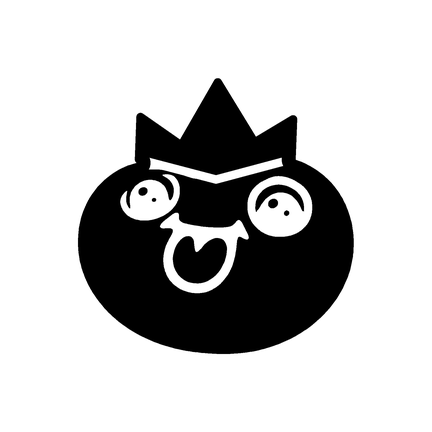
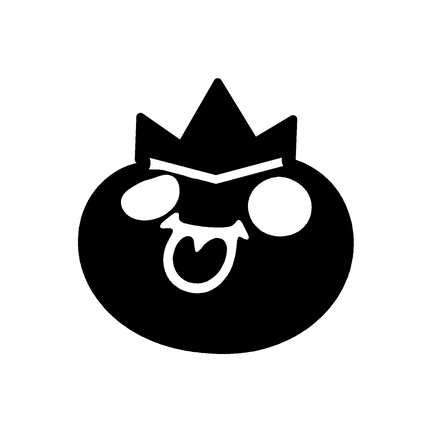
feat(brand): 까꿍의 눈을 꽉 찬 검정으로 — 흰자·하이라이트 제거
스티커의 반짝이는 흰자는 원본 펜 그림에 없다. 손그림을 이미지 모델로 스티커화하는
과정에서 덧붙은 것이고, 종이에 그린 눈은 전부 꽉 찬 검은 타원이다. 원본으로 되돌린다.

두 가지가 걸렸다.
- 바깥으로 열린 초승달은 구멍이 아니라 홈이라 fill_holes 로 안 메워진다. 오른쪽 눈은
  하이라이트가 닫힌 구멍이라 그냥 메워지지만(둘레 618 불변), 왼쪽 눈은 쓸림이 테두리로
  열려 있다. 닫힘 R=24 를 먼저 걸면 봉해진다(둘레 702 → 536).
- 봉한 자리가 울퉁불퉁해 눈만 평활을 4.5 로 세게 건다. 입은 2.0 그대로 둔다 — 원본 결을
  남겨야 한다. 볼록껍질도 재봤지만 왼쪽 눈이 각진 쐐기가 돼 뺐다.

입만은 구멍을 남긴다(혀와 몸통 초록이 비쳐야 한다). 입의 판별은 위치가 아니라 "혀 중심을
품는 성분"으로 한다 — 위치 규칙은 컷이 바뀌면 깨지지만 이건 안 깨진다.

잉크 질량이 늘어 24px 진한 픽셀이 13.0% → 14.1%. 패스는 14개 → 8개로 줄었다
(하이라이트 6개 삭제). SVG 34.4KB → 27.7KB.

검증: npm run typecheck 통과.
⚠ 실기기 육안 확인은 여전히 미검증.

Claude-Session: https://claude.ai/code/session_01BU8FhDvej1k9k2iXYBdBjZ

Changed region(s): [[0.5718, 0.3912, 0.7222, 0.5417], [0.2708, 0.3912, 0.4213, 0.4815], [0.3611, 0.4815, 0.3912, 0.5116]]

diff --git a/frontend/src/components/BigaeMark.tsx b/frontend/src/components/BigaeMark.tsx
@@ -5,12 +5,19 @@
  * 벡터로 옮긴 것이다. 마스터는 {@code assets/bigae-mark.svg} 이고 앱 아이콘도 여기서 렌더한다.
  *
  * <p><b>왜 까꿍인가</b>: 이전 컷(bigae_excited)은 눈이 점 두 개라 48px 에서 캐릭터가
- * "보지 않았다". 까꿍은 큰 눈 + 하이라이트 + 혀를 이미 갖고 있어 잉크 질량이 크고,
+ * "보지 않았다". 까꿍은 큰 눈 + 혀를 이미 갖고 있어 잉크 질량이 크고,
  * 그래서 흰 배경에서도 형태가 남는다(24px 진한 윤곽 픽셀 0.3% → 13.0%).
  *
  * <p><b>왕관</b>: 럽슐랭(맛집 등급)이 이 앱의 정체성이라 왕관을 얹었다. 미슐랭 별 형태는
  * 상표라 피했다. 밑변이 V 자인 이유는 머리 꼭대기의 하트 홈(y 38.4)을 덮으면서
  * 눈(y 36.4)은 비켜가야 하기 때문이다 — 직선 밑변이면 둘 중 하나가 깨진다.
+ *
+ * <p><b>눈은 꽉 찬 검정이다</b> — 흰자·하이라이트가 없다. 원본 펜 그림의 눈이 그랬고,
+ * 스티커의 반짝임은 손그림을 이미지 모델로 스티커화하는 과정에서 덧붙은 것이다.
+ * 걷어내는 방법: 바깥으로 열린 초승달 하이라이트는 구멍이 아니라 홈이라 fill_holes 로
+ * 안 메워진다 — 닫힘(R=24)으로 봉한 뒤 채우고, 그 자리가 울퉁불퉁해 평활을 4.5 로 세게 건다.
+ * 입만은 구멍을 남긴다(혀와 몸통 초록이 비쳐야 한다). 입의 판별은 위치가 아니라
+ * "혀 중심을 품는 성분" 으로 한다.
  *
  * <p>얼굴은 몸통 대비 (5.4, 1.5) 만큼 옮겨 중심을 맞췄다. 팔다리를 떼면
  * 얼굴이 왼쪽으로 5.7% 치우치기 때문이다. 그 값은 패스 좌표에 구워져 있다.
@@ -38,15 +45,9 @@ export function BigaeMark({ size = 96, style }: { size?: number; style?: ViewSty
     <Path fill={BLUSH} d="M80.0,60.5C80.1,60.4 80.2,60.4 80.4,60.4C80.5,60.4 80.6,60.4 80.8,60.4C80.9,60.4 81.0,60.4 81.1,60.4C81.3,60.4 81.4,60.4 81.5,60.5C81.6,60.5 81.8,60.5 81.9,60.5C82.0,60.5 82.1,60.5 82.3,60.5C82.4,60.5 82.5,60.6 82.6,60.6C82.7,60.6 82.9,60.6 83.0,60.6C83.1,60.7 83.2,60.7 83.3,60.7C83.5,60.7 83.6,60.8 83.7,60.8C83.8,60.8 83.9,60.9 84.0,60.9C84.1,60.9 84.3,61.0 84.4,61.0C84.5,61.0 84.6,61.1 84.7,61.1C84.8,61.2 84.9,61.2 85.0,61.3C85.2,61.3 85.3,61.4 85.4,61.4C85.5,61.5 85.6,61.5 85.7,61.6C85.8,61.7 85.9,61.7 86.0,61.8C86.1,61.9 86.2,61.9 86.3,62.0C86.3,62.1 86.4,62.2 86.5,62.3C86.6,62.4 86.7,62.5 86.7,62.6C86.8,62.6 86.9,62.7 86.9,62.8C87.0,62.9 87.1,63.1 87.1,63.2C87.2,63.3 87.2,63.4 87.2,63.5C87.3,63.6 87.3,63.7 87.3,63.8C87.3,63.9 87.4,64.1 87.4,64.2C87.4,64.3 87.4,64.4 87.4,64.5C87.4,64.6 87.4,64.8 87.3,64.9C87.3,65.0 87.3,65.1 87.3,65.2C87.2,65.3 87.2,65.4 87.1,65.5C87.1,65.7 87.0,65.8 87.0,65.9C86.9,66.0 86.9,66.1 86.8,66.2C86.7,66.3 86.7,66.4 86.6,66.5C86.5,66.6 86.4,66.7 86.4,66.7C86.3,66.8 86.2,66.9 86.1,67.0C86.0,67.1 85.9,67.2 85.8,67.2C85.7,67.3 85.6,67.4 85.5,67.5C85.4,67.5 85.3,67.6 85.2,67.7C85.1,67.7 85.0,67.8 84.9,67.9C84.8,67.9 84.7,68.0 84.6,68.0C84.5,68.1 84.4,68.2 84.3,68.2C84.2,68.3 84.1,68.3 84.0,68.4C83.9,68.4 83.8,68.5 83.6,68.5C83.5,68.6 83.4,68.6 83.3,68.6C83.2,68.7 83.1,68.7 83.0,68.8C82.9,68.8 82.8,68.8 82.6,68.9C82.5,68.9 82.4,69.0 82.3,69.0C82.2,69.0 82.1,69.1 82.0,69.1C81.8,69.1 81.7,69.2 81.6,69.2C81.5,69.2 81.4,69.2 81.2,69.3C81.1,69.3 81.0,69.3 80.9,69.3C80.8,69.3 80.6,69.4 80.5,69.4C80.4,69.4 80.3,69.4 80.1,69.4C80.0,69.4 79.9,69.4 79.8,69.4C79.6,69.4 79.5,69.5 79.4,69.5C79.3,69.5 79.1,69.5 79.0,69.5C78.9,69.5 78.8,69.5 78.6,69.5C78.5,69.5 78.4,69.5 78.3,69.5C78.1,69.5 78.0,69.5 77.9,69.5C77.7,69.5 77.6,69.5 77.5,69.5C77.4,69.5 77.2,69.5 77.1,69.4C77.0,69.4 76.9,69.4 76.7,69.4C76.6,69.4 76.5,69.4 76.4,69.4C76.3,69.4 76.1,69.3 76.0,69.3C75.9,69.3 75.8,69.3 75.7,69.3C75.5,69.2 75.4,69.2 75.3,69.2C75.2,69.1 75.1,69.1 74.9,69.1C74.8,69.0 74.7,69.0 74.6,69.0C74.5,68.9 74.4,68.9 74.3,68.8C74.2,68.8 74.1,68.7 73.9,68.7C73.8,68.6 73.7,68.6 73.6,68.5C73.5,68.5 73.4,68.4 73.3,68.4C73.2,68.3 73.1,68.2 73.0,68.2C72.9,68.1 72.8,68.0 72.7,67.9C72.6,67.8 72.6,67.8 72.5,67.7C72.4,67.6 72.3,67.5 72.2,67.4C72.2,67.3 72.1,67.2 72.0,67.1C72.0,67.0 71.9,66.9 71.9,66.8C71.8,66.7 71.8,66.6 71.7,66.5C71.7,66.4 71.7,66.2 71.6,66.1C71.6,66.0 71.6,65.9 71.6,65.8C71.6,65.7 71.6,65.5 71.6,65.4C71.6,65.3 71.6,65.2 71.6,65.1C71.6,65.0 71.6,64.8 71.7,64.7C71.7,64.6 71.7,64.5 71.8,64.4C71.8,64.3 71.9,64.2 72.0,64.1C72.0,64.0 72.1,63.9 72.1,63.8C72.2,63.7 72.3,63.6 72.4,63.5C72.5,63.4 72.5,63.3 72.6,63.2C72.7,63.1 72.8,63.0 72.9,62.9C73.0,62.9 73.1,62.8 73.2,62.7C73.3,62.6 73.4,62.6 73.5,62.5C73.6,62.4 73.7,62.3 73.8,62.3C73.9,62.2 74.0,62.2 74.1,62.1C74.2,62.0 74.3,62.0 74.4,61.9C74.5,61.9 74.6,61.8 74.7,61.8C74.8,61.7 74.9,61.7 75.1,61.6C75.2,61.6 75.3,61.5 75.4,61.5C75.5,61.4 75.6,61.4 75.7,61.3C75.8,61.3 75.9,61.2 76.0,61.2C76.2,61.2 76.3,61.1 76.4,61.1C76.5,61.0 76.6,61.0 76.7,61.0C76.8,60.9 77.0,60.9 77.1,60.9C77.2,60.9 77.3,60.8 77.4,60.8C77.5,60.8 77.7,60.7 77.8,60.7C77.9,60.7 78.0,60.7 78.1,60.7C78.3,60.6 78.4,60.6 78.5,60.6C78.6,60.6 78.8,60.6 78.9,60.5C79.0,60.5 79.1,60.5 79.2,60.5C79.4,60.5 79.5,60.5 79.6,60.5C79.7,60.5 79.9,60.5 80.0,60.5Z" />
     <Path fill={BLUSH} d="M17.6,55.3C17.7,55.3 17.9,55.2 18.0,55.2C18.1,55.2 18.2,55.2 18.3,55.2C18.4,55.2 18.6,55.2 18.7,55.2C18.8,55.2 18.9,55.2 19.0,55.2C19.2,55.2 19.3,55.3 19.4,55.3C19.5,55.3 19.6,55.3 19.7,55.3C19.9,55.3 20.0,55.3 20.1,55.3C20.2,55.3 20.3,55.4 20.4,55.4C20.5,55.4 20.7,55.4 20.8,55.4C20.9,55.4 21.0,55.5 21.1,55.5C21.2,55.5 21.3,55.5 21.4,55.6C21.6,55.6 21.7,55.6 21.8,55.6C21.9,55.7 22.0,55.7 22.1,55.7C22.2,55.7 22.3,55.8 22.4,55.8C22.5,55.8 22.6,55.9 22.7,55.9C22.8,55.9 23.0,56.0 23.1,56.0C23.2,56.1 23.3,56.1 23.4,56.1C23.5,56.2 23.6,56.2 23.7,56.3C23.8,56.3 23.9,56.3 24.0,56.4C24.1,56.4 24.2,56.5 24.3,56.5C24.4,56.6 24.5,56.6 24.6,56.7C24.7,56.7 24.8,56.8 24.9,56.9C25.0,56.9 25.1,57.0 25.2,57.0C25.3,57.1 25.4,57.2 25.5,57.2C25.6,57.3 25.6,57.3 25.7,57.4C25.8,57.5 25.9,57.6 26.0,57.6C26.1,57.7 26.2,57.8 26.3,57.9C26.3,58.0 26.4,58.0 26.5,58.1C26.6,58.2 26.6,58.3 26.7,58.4C26.8,58.5 26.8,58.6 26.9,58.7C26.9,58.8 27.0,58.9 27.0,59.0C27.1,59.1 27.1,59.2 27.2,59.3C27.2,59.4 27.2,59.5 27.3,59.6C27.3,59.7 27.3,59.8 27.4,59.9C27.4,60.0 27.4,60.1 27.4,60.2C27.4,60.4 27.4,60.5 27.4,60.6C27.4,60.7 27.4,60.8 27.4,60.9C27.4,61.0 27.4,61.1 27.3,61.2C27.3,61.4 27.3,61.5 27.2,61.6C27.2,61.7 27.1,61.8 27.1,61.9C27.0,62.0 27.0,62.1 26.9,62.2C26.9,62.3 26.8,62.3 26.7,62.4C26.7,62.5 26.6,62.6 26.5,62.7C26.4,62.8 26.3,62.8 26.3,62.9C26.2,63.0 26.1,63.1 26.0,63.1C25.9,63.2 25.8,63.3 25.7,63.3C25.6,63.4 25.5,63.4 25.4,63.5C25.3,63.5 25.2,63.6 25.1,63.6C25.0,63.7 24.9,63.7 24.8,63.8C24.7,63.8 24.6,63.9 24.5,63.9C24.4,63.9 24.3,64.0 24.2,64.0C24.1,64.0 24.0,64.1 23.8,64.1C23.7,64.1 23.6,64.1 23.5,64.1C23.4,64.2 23.3,64.2 23.2,64.2C23.0,64.2 22.9,64.2 22.8,64.2C22.7,64.2 22.6,64.2 22.5,64.2C22.3,64.2 22.2,64.2 22.1,64.2C22.0,64.2 21.9,64.2 21.7,64.2C21.6,64.2 21.5,64.2 21.4,64.2C21.3,64.2 21.1,64.2 21.0,64.2C20.9,64.2 20.8,64.2 20.7,64.2C20.5,64.2 20.4,64.2 20.3,64.2C20.2,64.2 20.1,64.1 20.0,64.1C19.9,64.1 19.7,64.1 19.6,64.1C19.5,64.1 19.4,64.0 19.3,64.0C19.2,64.0 19.1,64.0 19.0,63.9C18.9,63.9 18.8,63.9 18.6,63.8C18.5,63.8 18.4,63.8 18.3,63.7C18.2,63.7 18.1,63.7 18.0,63.6C17.9,63.6 17.8,63.6 17.7,63.5C17.6,63.5 17.5,63.5 17.4,63.4C17.3,63.4 17.2,63.3 17.1,63.3C17.0,63.3 16.9,63.2 16.7,63.2C16.6,63.1 16.5,63.1 16.4,63.0C16.3,63.0 16.2,62.9 16.1,62.9C16.0,62.8 16.0,62.8 15.9,62.7C15.8,62.7 15.7,62.6 15.6,62.5C15.5,62.5 15.4,62.4 15.3,62.3C15.2,62.3 15.1,62.2 15.0,62.1C14.9,62.1 14.8,62.0 14.7,61.9C14.6,61.9 14.6,61.8 14.5,61.7C14.4,61.6 14.3,61.5 14.2,61.5C14.1,61.4 14.0,61.3 14.0,61.2C13.9,61.1 13.8,61.0 13.8,60.9C13.7,60.9 13.6,60.8 13.6,60.7C13.5,60.6 13.4,60.5 13.4,60.4C13.3,60.3 13.3,60.2 13.3,60.1C13.2,60.0 13.2,59.9 13.1,59.8C13.1,59.7 13.1,59.5 13.0,59.4C13.0,59.3 13.0,59.2 13.0,59.1C13.0,59.0 13.0,58.9 13.0,58.8C13.0,58.7 13.0,58.5 13.0,58.4C13.0,58.3 13.0,58.2 13.1,58.1C13.1,58.0 13.1,57.9 13.2,57.8C13.2,57.7 13.2,57.6 13.3,57.5C13.3,57.4 13.4,57.3 13.5,57.2C13.5,57.1 13.6,57.0 13.7,56.9C13.7,56.8 13.8,56.8 13.9,56.7C14.0,56.6 14.1,56.5 14.1,56.4C14.2,56.4 14.3,56.3 14.4,56.2C14.5,56.2 14.6,56.1 14.7,56.1C14.8,56.0 14.9,56.0 15.0,55.9C15.1,55.9 15.2,55.8 15.3,55.8C15.4,55.7 15.5,55.7 15.6,55.7C15.7,55.6 15.8,55.6 15.9,55.5C16.0,55.5 16.1,55.5 16.3,55.5C16.4,55.4 16.5,55.4 16.6,55.4C16.7,55.4 16.8,55.4 16.9,55.3C17.0,55.3 17.2,55.3 17.3,55.3C17.4,55.3 17.5,55.3 17.6,55.3Z" />
     <Path fill={TONGUE} d="M39.6,57.9C39.8,57.8 40.0,57.7 40.2,57.7C40.4,57.7 40.7,57.7 40.9,57.7C41.1,57.7 41.4,57.7 41.6,57.8C41.8,57.8 42.0,57.9 42.2,57.9C42.4,58.0 42.6,58.0 42.8,58.1C43.0,58.2 43.1,58.2 43.2,58.3C43.3,58.4 43.4,58.6 43.5,58.7C43.5,58.8 43.5,59.0 43.5,59.1C43.5,59.3 43.4,59.5 43.4,59.6C43.3,59.8 43.2,60.0 43.2,60.2C43.1,60.4 43.0,60.6 42.9,60.9C42.8,61.1 42.7,61.3 42.6,61.5C42.5,61.7 42.5,61.9 42.4,62.2C42.3,62.4 42.2,62.6 42.2,62.8C42.1,63.1 42.0,63.3 42.0,63.5C42.0,63.8 41.9,64.0 41.9,64.2C41.9,64.5 41.9,64.7 41.9,64.9C41.9,65.1 41.9,65.4 41.9,65.5C42.0,65.7 42.1,65.9 42.2,66.1C42.3,66.2 42.4,66.4 42.5,66.4C42.6,66.5 42.8,66.6 42.9,66.6C43.1,66.6 43.3,66.6 43.4,66.5C43.5,66.4 43.7,66.3 43.8,66.2C43.9,66.1 44.1,65.9 44.2,65.7C44.3,65.5 44.3,65.3 44.4,65.1C44.5,64.9 44.6,64.7 44.6,64.4C44.7,64.2 44.8,64.0 44.8,63.8C44.9,63.5 45.0,63.3 45.0,63.1C45.1,62.9 45.2,62.6 45.3,62.4C45.4,62.2 45.5,62.0 45.6,61.8C45.7,61.6 45.8,61.3 45.9,61.1C46.0,60.9 46.1,60.7 46.3,60.5C46.4,60.3 46.5,60.2 46.7,60.0C46.8,59.8 47.0,59.6 47.1,59.5C47.3,59.3 47.5,59.2 47.6,59.1C47.8,59.0 48.0,58.9 48.2,58.8C48.4,58.8 48.7,58.7 48.9,58.7C49.1,58.7 49.4,58.6 49.6,58.6C49.8,58.6 50.1,58.6 50.3,58.6C50.6,58.6 50.8,58.6 51.1,58.6C51.3,58.6 51.6,58.6 51.8,58.6C52.0,58.6 52.3,58.6 52.5,58.6C52.7,58.7 52.9,58.7 53.1,58.8C53.3,58.8 53.5,58.9 53.7,59.0C53.8,59.1 54.0,59.2 54.1,59.4C54.2,59.5 54.2,59.7 54.3,59.9C54.3,60.1 54.4,60.3 54.4,60.6C54.4,60.8 54.4,61.0 54.4,61.3C54.4,61.5 54.4,61.7 54.4,62.0C54.4,62.2 54.3,62.5 54.3,62.7C54.3,63.0 54.2,63.2 54.2,63.4C54.2,63.7 54.1,63.9 54.1,64.2C54.1,64.4 54.0,64.6 54.0,64.9C53.9,65.1 53.9,65.3 53.8,65.6C53.7,65.8 53.7,66.0 53.6,66.3C53.6,66.5 53.5,66.7 53.4,67.0C53.3,67.2 53.3,67.4 53.2,67.6C53.1,67.9 53.0,68.1 52.9,68.3C52.8,68.5 52.7,68.7 52.7,68.9C52.6,69.2 52.5,69.4 52.3,69.6C52.2,69.8 52.1,70.0 52.0,70.2C51.9,70.4 51.8,70.6 51.6,70.8C51.5,71.0 51.4,71.2 51.2,71.4C51.1,71.6 51.0,71.8 50.8,72.0C50.7,72.2 50.5,72.4 50.3,72.6C50.2,72.7 50.0,72.9 49.8,73.1C49.6,73.2 49.5,73.4 49.3,73.6C49.1,73.7 48.9,73.8 48.7,74.0C48.5,74.1 48.3,74.3 48.1,74.4C47.9,74.5 47.7,74.6 47.5,74.7C47.3,74.8 47.1,74.9 46.8,75.0C46.6,75.1 46.4,75.2 46.2,75.2C46.0,75.3 45.7,75.4 45.5,75.4C45.3,75.5 45.0,75.5 44.8,75.6C44.5,75.6 44.3,75.6 44.1,75.6C43.8,75.6 43.6,75.6 43.3,75.6C43.1,75.6 42.9,75.6 42.6,75.6C42.4,75.6 42.1,75.5 41.9,75.5C41.7,75.4 41.4,75.4 41.2,75.3C41.0,75.2 40.8,75.2 40.5,75.1C40.3,75.0 40.1,74.9 39.9,74.8C39.7,74.7 39.4,74.6 39.2,74.5C39.0,74.4 38.8,74.3 38.6,74.2C38.4,74.1 38.2,73.9 38.0,73.8C37.8,73.6 37.6,73.5 37.5,73.3C37.3,73.2 37.1,73.0 36.9,72.8C36.8,72.6 36.6,72.4 36.5,72.2C36.3,72.1 36.2,71.9 36.1,71.7C36.0,71.5 35.8,71.2 35.7,71.0C35.6,70.8 35.5,70.6 35.4,70.4C35.3,70.2 35.3,69.9 35.2,69.7C35.1,69.5 35.1,69.3 35.0,69.0C35.0,68.8 34.9,68.5 34.9,68.3C34.9,68.1 34.9,67.8 34.8,67.6C34.8,67.3 34.8,67.1 34.8,66.8C34.8,66.6 34.8,66.3 34.8,66.1C34.9,65.9 34.9,65.6 34.9,65.4C35.0,65.1 35.0,64.9 35.0,64.7C35.1,64.4 35.1,64.2 35.2,64.0C35.3,63.7 35.3,63.5 35.4,63.3C35.5,63.1 35.6,62.8 35.7,62.6C35.8,62.4 35.8,62.2 35.9,62.0C36.0,61.7 36.2,61.5 36.3,61.3C36.4,61.1 36.5,60.9 36.6,60.7C36.8,60.5 36.9,60.3 37.0,60.1C37.2,59.9 37.3,59.7 37.5,59.5C37.6,59.3 37.8,59.2 37.9,59.0C38.1,58.8 38.3,58.6 38.4,58.5C38.6,58.4 38.8,58.2 39.0,58.1C39.2,58.0 39.4,57.9 39.6,57.9Z" />
-    <Path fill={INK} fillRule="evenodd" d="M33.6,38.0C33.8,38.0 34.1,38.1 34.3,38.1C34.5,38.2 34.8,38.2 35.0,38.3C35.2,38.4 35.5,38.5 35.7,38.6C35.9,38.8 36.1,38.9 36.2,39.1C36.4,39.3 36.6,39.5 36.7,39.7C36.9,39.9 37.0,40.1 37.1,40.3C37.2,40.5 37.3,40.8 37.4,41.0C37.5,41.3 37.6,41.5 37.6,41.8C37.7,42.0 37.7,42.3 37.8,42.5C37.8,42.8 37.8,43.1 37.8,43.3C37.8,43.6 37.8,43.9 37.8,44.1C37.8,44.4 37.8,44.6 37.7,44.9C37.7,45.2 37.6,45.4 37.6,45.7C37.5,45.9 37.4,46.2 37.3,46.4C37.3,46.7 37.2,46.9 37.0,47.1C36.9,47.4 36.8,47.6 36.7,47.8C36.6,48.0 36.4,48.3 36.3,48.5C36.1,48.7 36.0,48.9 35.8,49.1C35.6,49.3 35.5,49.5 35.3,49.7C35.1,49.9 34.9,50.1 34.7,50.3C34.5,50.5 34.3,50.6 34.1,50.8C33.9,51.0 33.7,51.1 33.4,51.3C33.2,51.4 33.0,51.6 32.8,51.7C32.6,51.8 32.3,52.0 32.1,52.1C31.9,52.2 31.6,52.3 31.4,52.4C31.2,52.5 30.9,52.6 30.7,52.7C30.4,52.8 30.2,52.9 29.9,53.0C29.7,53.1 29.5,53.1 29.2,53.2C28.9,53.3 28.7,53.3 28.4,53.4C28.2,53.4 27.9,53.5 27.7,53.5C27.4,53.6 27.1,53.6 26.9,53.6C26.6,53.6 26.3,53.6 26.0,53.6C25.8,53.6 25.5,53.6 25.2,53.6C25.0,53.6 24.7,53.6 24.4,53.6C24.2,53.5 23.9,53.5 23.7,53.4C23.4,53.4 23.1,53.3 22.9,53.3C22.6,53.2 22.4,53.1 22.2,53.0C21.9,52.9 21.7,52.8 21.4,52.7C21.2,52.6 21.0,52.5 20.8,52.3C20.6,52.2 20.3,52.1 20.1,51.9C19.9,51.7 19.8,51.6 19.6,51.4C19.4,51.2 19.2,51.0 19.1,50.8C18.9,50.6 18.8,50.4 18.6,50.2C18.5,50.0 18.4,49.8 18.3,49.5C18.1,49.3 18.1,49.1 18.0,48.8C17.9,48.6 17.8,48.3 17.8,48.1C17.7,47.8 17.7,47.6 17.7,47.3C17.7,47.1 17.7,46.8 17.8,46.6C17.8,46.4 17.9,46.1 18.0,45.9C18.1,45.7 18.2,45.4 18.3,45.2C18.5,45.0 18.6,44.8 18.8,44.6C18.9,44.4 19.1,44.3 19.2,44.1C19.4,44.0 19.5,43.8 19.6,43.8C19.7,43.7 19.9,43.6 19.9,43.6C20.0,43.6 20.0,43.6 20.0,43.7C20.1,43.8 20.0,43.9 20.0,44.0C20.0,44.2 19.9,44.4 19.9,44.6C19.9,44.8 19.8,45.0 19.8,45.3C19.7,45.5 19.7,45.7 19.7,46.0C19.7,46.2 19.7,46.5 19.7,46.8C19.7,47.0 19.7,47.3 19.8,47.5C19.8,47.7 19.9,48.0 20.0,48.2C20.1,48.4 20.2,48.6 20.3,48.8C20.4,49.0 20.5,49.2 20.6,49.3C20.7,49.4 20.8,49.5 20.9,49.5C20.9,49.6 21.0,49.6 21.0,49.5C21.1,49.5 21.1,49.3 21.1,49.2C21.1,49.1 21.1,48.9 21.1,48.7C21.0,48.5 21.0,48.3 21.0,48.0C20.9,47.8 20.9,47.5 20.9,47.3C20.9,47.0 20.9,46.8 20.9,46.5C20.9,46.3 20.9,46.0 20.9,45.7C21.0,45.5 21.0,45.2 21.1,45.0C21.2,44.7 21.2,44.5 21.3,44.2C21.4,44.0 21.5,43.8 21.7,43.5C21.8,43.3 21.9,43.1 22.1,42.9C22.2,42.7 22.4,42.5 22.5,42.3C22.7,42.1 22.9,41.9 23.1,41.7C23.3,41.6 23.5,41.4 23.7,41.3C23.9,41.1 24.1,41.0 24.3,40.8C24.5,40.7 24.8,40.6 25.0,40.5C25.2,40.4 25.5,40.3 25.7,40.2C26.0,40.1 26.2,40.1 26.5,40.0C26.7,40.0 27.0,39.9 27.3,39.9C27.5,39.9 27.8,39.9 28.0,39.9C28.3,39.9 28.6,39.9 28.8,40.0C29.1,40.0 29.3,40.0 29.6,40.1C29.8,40.2 30.1,40.3 30.3,40.4C30.6,40.4 30.8,40.6 31.0,40.7C31.2,40.8 31.4,41.0 31.6,41.1C31.8,41.3 32.0,41.5 32.2,41.6C32.4,41.8 32.6,42.0 32.7,42.2C32.9,42.4 33.0,42.7 33.1,42.9C33.2,43.1 33.3,43.3 33.4,43.6C33.5,43.8 33.6,44.1 33.7,44.3C33.7,44.6 33.8,44.8 33.9,45.0C33.9,45.3 33.9,45.5 34.0,45.7C34.0,46.0 34.1,46.2 34.1,46.3C34.2,46.5 34.2,46.6 34.3,46.7C34.4,46.8 34.4,46.8 34.5,46.8C34.6,46.8 34.7,46.7 34.8,46.6C34.9,46.5 35.0,46.4 35.1,46.2C35.2,46.1 35.3,45.8 35.4,45.6C35.5,45.4 35.5,45.2 35.6,44.9C35.6,44.7 35.7,44.4 35.7,44.2C35.7,43.9 35.7,43.7 35.7,43.4C35.7,43.2 35.7,42.9 35.7,42.7C35.6,42.4 35.6,42.2 35.5,41.9C35.4,41.7 35.3,41.5 35.2,41.2C35.1,41.0 34.9,40.8 34.8,40.6C34.6,40.4 34.5,40.2 34.3,40.0C34.1,39.8 33.9,39.7 33.7,39.5C33.5,39.4 33.3,39.2 33.1,39.1C32.9,39.0 32.7,38.9 32.6,38.8C32.4,38.7 32.2,38.6 32.1,38.5C32.0,38.4 31.9,38.4 31.9,38.3C31.9,38.3 31.9,38.2 32.0,38.2C32.0,38.2 32.2,38.1 32.3,38.1C32.5,38.1 32.7,38.1 32.9,38.0C33.1,38.0 33.3,38.0 33.6,38.0ZM25.4,42.4C25.6,42.4 25.8,42.4 26.0,42.4C26.2,42.5 26.3,42.6 26.5,42.7C26.6,42.8 26.7,42.9 26.8,43.1C26.9,43.3 26.9,43.5 26.9,43.7C26.9,43.8 26.9,44.0 26.8,44.2C26.7,44.4 26.6,44.6 26.4,44.7C26.3,44.9 26.1,45.0 25.9,45.1C25.8,45.2 25.5,45.2 25.4,45.2C25.2,45.3 25.0,45.3 24.8,45.2C24.6,45.2 24.4,45.1 24.3,45.0C24.1,44.9 24.0,44.7 23.9,44.5C23.9,44.4 23.8,44.2 23.8,44.0C23.8,43.8 23.9,43.6 23.9,43.4C24.0,43.2 24.1,43.1 24.3,42.9C24.4,42.8 24.6,42.6 24.8,42.6C25.0,42.5 25.2,42.4 25.4,42.4ZM28.9,46.0C29.0,46.0 29.1,46.0 29.2,46.0C29.3,46.0 29.4,46.0 29.5,46.1C29.5,46.1 29.6,46.2 29.7,46.2C29.7,46.3 29.8,46.4 29.8,46.5C29.8,46.6 29.8,46.7 29.8,46.8C29.8,46.8 29.7,46.9 29.7,47.0C29.6,47.1 29.6,47.2 29.5,47.2C29.4,47.3 29.3,47.3 29.2,47.3C29.1,47.3 29.0,47.4 29.0,47.3C28.9,47.3 28.8,47.3 28.7,47.3C28.6,47.2 28.5,47.1 28.5,47.1C28.4,47.0 28.4,46.9 28.4,46.8C28.3,46.8 28.3,46.7 28.4,46.6C28.4,46.5 28.4,46.4 28.5,46.3C28.5,46.2 28.6,46.2 28.7,46.1C28.7,46.1 28.8,46.0 28.9,46.0Z" />
-    <Path fill={INK} fillRule="evenodd" d="M70.5,38.7C70.7,38.7 70.9,38.6 71.1,38.6C71.3,38.6 71.4,38.7 71.6,38.7C71.8,38.7 72.0,38.7 72.2,38.7C72.4,38.7 72.6,38.8 72.7,38.8C72.9,38.8 73.1,38.9 73.3,38.9C73.5,38.9 73.7,39.0 73.8,39.0C74.0,39.1 74.2,39.1 74.4,39.2C74.5,39.2 74.7,39.3 74.9,39.4C75.0,39.4 75.2,39.5 75.4,39.6C75.5,39.6 75.7,39.7 75.9,39.8C76.0,39.9 76.2,40.0 76.4,40.0C76.5,40.1 76.7,40.2 76.8,40.3C77.0,40.4 77.2,40.5 77.3,40.6C77.5,40.7 77.6,40.8 77.8,40.9C78.0,41.0 78.1,41.1 78.3,41.2C78.4,41.3 78.6,41.4 78.7,41.5C78.9,41.6 79.0,41.7 79.1,41.9C79.3,42.0 79.4,42.1 79.6,42.2C79.7,42.4 79.8,42.5 80.0,42.7C80.1,42.8 80.2,42.9 80.3,43.1C80.5,43.2 80.6,43.4 80.7,43.5C80.8,43.7 80.9,43.8 81.0,44.0C81.1,44.1 81.2,44.3 81.3,44.5C81.4,44.6 81.5,44.8 81.5,44.9C81.6,45.1 81.7,45.3 81.8,45.4C81.8,45.6 81.9,45.8 82.0,45.9C82.0,46.1 82.1,46.3 82.1,46.5C82.2,46.6 82.2,46.8 82.3,47.0C82.3,47.2 82.3,47.4 82.4,47.5C82.4,47.7 82.4,47.9 82.4,48.1C82.5,48.3 82.5,48.5 82.5,48.7C82.5,48.9 82.5,49.1 82.5,49.3C82.5,49.4 82.5,49.6 82.5,49.8C82.5,50.0 82.4,50.2 82.4,50.4C82.4,50.6 82.4,50.8 82.4,51.0C82.3,51.1 82.3,51.3 82.2,51.5C82.2,51.7 82.2,51.9 82.1,52.0C82.1,52.2 82.0,52.4 81.9,52.6C81.9,52.7 81.8,52.9 81.8,53.1C81.7,53.2 81.6,53.4 81.5,53.6C81.4,53.7 81.4,53.9 81.3,54.0C81.2,54.2 81.1,54.4 81.0,54.5C80.9,54.7 80.8,54.8 80.7,55.0C80.5,55.1 80.4,55.3 80.3,55.4C80.2,55.6 80.1,55.7 79.9,55.8C79.8,56.0 79.7,56.1 79.5,56.2C79.4,56.4 79.3,56.5 79.1,56.6C79.0,56.7 78.8,56.9 78.7,57.0C78.5,57.1 78.4,57.2 78.2,57.3C78.1,57.4 77.9,57.5 77.8,57.6C77.6,57.7 77.4,57.8 77.3,57.9C77.1,58.0 77.0,58.0 76.8,58.1C76.6,58.2 76.5,58.3 76.3,58.3C76.1,58.4 75.9,58.4 75.8,58.5C75.6,58.6 75.4,58.6 75.3,58.7C75.1,58.7 74.9,58.8 74.7,58.8C74.5,58.8 74.4,58.9 74.2,58.9C74.0,58.9 73.8,59.0 73.6,59.0C73.4,59.0 73.2,59.0 73.1,59.1C72.9,59.1 72.7,59.1 72.5,59.1C72.3,59.1 72.1,59.1 71.9,59.1C71.7,59.1 71.5,59.1 71.4,59.1C71.2,59.1 71.0,59.1 70.8,59.1C70.6,59.1 70.4,59.1 70.2,59.1C70.0,59.1 69.8,59.1 69.7,59.0C69.5,59.0 69.3,59.0 69.1,58.9C68.9,58.9 68.8,58.9 68.6,58.8C68.4,58.8 68.2,58.7 68.0,58.7C67.9,58.6 67.7,58.6 67.5,58.5C67.4,58.4 67.2,58.4 67.0,58.3C66.9,58.2 66.7,58.2 66.5,58.1C66.4,58.0 66.2,57.9 66.0,57.8C65.9,57.7 65.7,57.6 65.6,57.6C65.4,57.5 65.3,57.4 65.1,57.3C65.0,57.1 64.8,57.0 64.7,56.9C64.5,56.8 64.4,56.7 64.2,56.6C64.1,56.5 63.9,56.3 63.8,56.2C63.7,56.1 63.5,55.9 63.4,55.8C63.3,55.7 63.1,55.5 63.0,55.4C62.9,55.2 62.8,55.1 62.7,55.0C62.5,54.8 62.4,54.7 62.3,54.5C62.2,54.4 62.1,54.2 62.0,54.0C61.9,53.9 61.8,53.7 61.8,53.6C61.7,53.4 61.6,53.2 61.5,53.1C61.4,52.9 61.4,52.7 61.3,52.6C61.2,52.4 61.2,52.2 61.1,52.1C61.0,51.9 61.0,51.7 60.9,51.5C60.9,51.4 60.8,51.2 60.8,51.0C60.7,50.8 60.7,50.7 60.7,50.5C60.7,50.3 60.6,50.1 60.6,49.9C60.6,49.7 60.6,49.5 60.6,49.3C60.6,49.2 60.6,49.0 60.6,48.8C60.6,48.6 60.6,48.4 60.6,48.2C60.6,48.0 60.6,47.8 60.6,47.6C60.6,47.5 60.7,47.3 60.7,47.1C60.7,46.9 60.8,46.7 60.8,46.5C60.8,46.4 60.9,46.2 60.9,46.0C61.0,45.8 61.1,45.7 61.1,45.5C61.2,45.3 61.2,45.2 61.3,45.0C61.4,44.8 61.5,44.7 61.5,44.5C61.6,44.3 61.7,44.2 61.8,44.0C61.9,43.9 62.0,43.7 62.1,43.5C62.2,43.4 62.3,43.2 62.4,43.1C62.5,42.9 62.7,42.8 62.8,42.7C62.9,42.5 63.0,42.4 63.2,42.2C63.3,42.1 63.4,42.0 63.6,41.8C63.7,41.7 63.9,41.6 64.0,41.5C64.2,41.4 64.3,41.3 64.5,41.1C64.6,41.0 64.8,40.9 64.9,40.8C65.1,40.7 65.2,40.6 65.4,40.5C65.6,40.5 65.7,40.4 65.9,40.3C66.0,40.2 66.2,40.1 66.4,40.0C66.5,40.0 66.7,39.9 66.9,39.8C67.0,39.7 67.2,39.6 67.3,39.6C67.5,39.5 67.7,39.4 67.8,39.3C68.0,39.3 68.2,39.2 68.4,39.1C68.5,39.1 68.7,39.0 68.9,39.0C69.0,38.9 69.2,38.9 69.4,38.8C69.6,38.8 69.8,38.8 69.9,38.7C70.1,38.7 70.3,38.7 70.5,38.7ZM70.2,41.9C71.0,41.8 71.8,41.9 72.6,42.0C73.4,42.1 74.3,42.4 75.0,42.8C75.7,43.2 76.4,43.7 77.0,44.2C77.6,44.8 78.1,45.5 78.4,46.1C78.8,46.8 79.1,47.6 79.3,48.2C79.4,48.8 79.5,49.5 79.5,49.9C79.5,50.2 79.4,50.5 79.3,50.5C79.2,50.6 79.1,50.3 78.9,50.0C78.7,49.6 78.5,49.0 78.2,48.5C77.9,47.9 77.5,47.2 77.0,46.7C76.5,46.1 75.9,45.5 75.3,45.1C74.7,44.8 73.9,44.4 73.1,44.3C72.4,44.1 71.6,44.1 70.8,44.2C70.1,44.4 69.3,44.6 68.6,45.0C67.9,45.4 67.3,45.9 66.7,46.4C66.2,47.0 65.7,47.7 65.3,48.2C65.0,48.7 64.7,49.3 64.4,49.7C64.2,50.0 64.0,50.2 63.8,50.2C63.7,50.2 63.6,49.9 63.5,49.5C63.5,49.2 63.5,48.5 63.7,47.9C63.8,47.3 64.1,46.5 64.4,45.9C64.8,45.2 65.3,44.5 65.8,44.0C66.4,43.4 67.1,43.0 67.8,42.6C68.6,42.3 69.4,42.0 70.2,41.9ZM69.3,46.3C69.5,46.2 69.7,46.3 69.9,46.3C70.1,46.4 70.3,46.5 70.4,46.6C70.6,46.8 70.7,46.9 70.8,47.1C70.9,47.3 70.9,47.5 70.9,47.7C70.9,47.9 70.8,48.2 70.8,48.4C70.7,48.6 70.5,48.8 70.4,48.9C70.2,49.1 70.0,49.2 69.8,49.3C69.7,49.4 69.4,49.5 69.2,49.5C69.0,49.5 68.8,49.5 68.6,49.5C68.4,49.4 68.2,49.3 68.1,49.2C67.9,49.0 67.8,48.9 67.7,48.7C67.6,48.5 67.6,48.3 67.6,48.1C67.6,47.9 67.7,47.6 67.7,47.4C67.8,47.2 67.9,47.0 68.1,46.9C68.2,46.7 68.4,46.6 68.6,46.5C68.8,46.4 69.0,46.3 69.3,46.3ZM73.7,50.2C73.9,50.2 74.0,50.2 74.1,50.3C74.2,50.3 74.3,50.4 74.4,50.4C74.5,50.5 74.6,50.6 74.6,50.7C74.7,50.8 74.7,50.9 74.7,51.1C74.7,51.2 74.7,51.3 74.7,51.4C74.6,51.5 74.6,51.6 74.5,51.7C74.4,51.8 74.3,51.9 74.2,51.9C74.1,52.0 74.0,52.0 73.9,52.1C73.8,52.1 73.7,52.1 73.5,52.0C73.4,52.0 73.3,51.9 73.2,51.9C73.2,51.8 73.1,51.7 73.0,51.6C73.0,51.5 72.9,51.4 72.9,51.3C72.9,51.2 72.9,51.0 73.0,50.9C73.0,50.8 73.1,50.7 73.1,50.6C73.2,50.5 73.3,50.4 73.4,50.4C73.5,50.3 73.6,50.3 73.7,50.2Z" />
+    <Path fill={INK} fillRule="evenodd" d="M33.5,38.2C33.7,38.2 33.8,38.2 33.9,38.3C34.1,38.3 34.2,38.3 34.4,38.3C34.5,38.4 34.6,38.4 34.8,38.5C34.9,38.5 35.0,38.6 35.2,38.6C35.3,38.7 35.4,38.8 35.5,38.8C35.7,38.9 35.8,39.0 35.9,39.1C36.0,39.2 36.1,39.3 36.2,39.4C36.3,39.5 36.4,39.6 36.5,39.7C36.6,39.8 36.7,39.9 36.7,40.0C36.8,40.2 36.9,40.3 37.0,40.4C37.0,40.5 37.1,40.7 37.2,40.8C37.2,41.0 37.3,41.1 37.3,41.2C37.4,41.4 37.4,41.5 37.5,41.7C37.5,41.8 37.5,42.0 37.6,42.1C37.6,42.3 37.6,42.4 37.6,42.6C37.7,42.7 37.7,42.9 37.7,43.0C37.7,43.2 37.7,43.3 37.7,43.5C37.7,43.7 37.7,43.8 37.7,44.0C37.7,44.1 37.7,44.3 37.7,44.4C37.7,44.6 37.6,44.7 37.6,44.9C37.6,45.0 37.6,45.2 37.5,45.3C37.5,45.5 37.5,45.6 37.4,45.8C37.4,45.9 37.3,46.1 37.3,46.2C37.2,46.4 37.2,46.5 37.1,46.7C37.1,46.8 37.0,47.0 36.9,47.1C36.9,47.2 36.8,47.4 36.7,47.5C36.7,47.7 36.6,47.8 36.5,47.9C36.4,48.1 36.3,48.2 36.3,48.3C36.2,48.5 36.1,48.6 36.0,48.7C35.9,48.8 35.8,49.0 35.7,49.1C35.6,49.2 35.5,49.3 35.4,49.4C35.3,49.6 35.2,49.7 35.1,49.8C35.0,49.9 34.8,50.0 34.7,50.1C34.6,50.2 34.5,50.3 34.4,50.4C34.3,50.5 34.1,50.6 34.0,50.7C33.9,50.8 33.8,50.9 33.6,51.0C33.5,51.1 33.4,51.2 33.3,51.3C33.1,51.4 33.0,51.5 32.9,51.6C32.7,51.6 32.6,51.7 32.5,51.8C32.3,51.9 32.2,52.0 32.0,52.0C31.9,52.1 31.8,52.2 31.6,52.2C31.5,52.3 31.3,52.4 31.2,52.4C31.1,52.5 30.9,52.6 30.8,52.6C30.6,52.7 30.5,52.7 30.3,52.8C30.2,52.8 30.0,52.9 29.9,52.9C29.7,53.0 29.6,53.0 29.4,53.1C29.3,53.1 29.1,53.2 29.0,53.2C28.8,53.2 28.7,53.3 28.5,53.3C28.4,53.3 28.2,53.4 28.1,53.4C27.9,53.4 27.8,53.4 27.6,53.5C27.4,53.5 27.3,53.5 27.1,53.5C27.0,53.5 26.8,53.5 26.6,53.5C26.5,53.6 26.3,53.6 26.2,53.6C26.0,53.6 25.8,53.6 25.7,53.6C25.5,53.6 25.4,53.6 25.2,53.6C25.1,53.5 24.9,53.5 24.7,53.5C24.6,53.5 24.4,53.5 24.3,53.5C24.1,53.4 24.0,53.4 23.8,53.4C23.6,53.4 23.5,53.3 23.3,53.3C23.2,53.3 23.0,53.2 22.9,53.2C22.7,53.1 22.6,53.1 22.4,53.0C22.3,53.0 22.2,52.9 22.0,52.9C21.9,52.8 21.7,52.7 21.6,52.7C21.5,52.6 21.3,52.5 21.2,52.5C21.1,52.4 20.9,52.3 20.8,52.2C20.7,52.1 20.5,52.0 20.4,52.0C20.3,51.9 20.2,51.8 20.1,51.7C19.9,51.6 19.8,51.5 19.7,51.4C19.6,51.3 19.5,51.1 19.4,51.0C19.3,50.9 19.2,50.8 19.1,50.7C19.0,50.6 18.9,50.4 18.9,50.3C18.8,50.2 18.7,50.1 18.6,49.9C18.5,49.8 18.5,49.7 18.4,49.5C18.3,49.4 18.3,49.3 18.2,49.1C18.2,49.0 18.1,48.8 18.1,48.7C18.1,48.6 18.0,48.4 18.0,48.3C18.0,48.1 18.0,48.0 17.9,47.8C17.9,47.7 17.9,47.5 17.9,47.4C17.9,47.3 17.9,47.1 17.9,47.0C18.0,46.8 18.0,46.7 18.0,46.5C18.1,46.4 18.1,46.3 18.1,46.1C18.2,46.0 18.2,45.9 18.3,45.7C18.4,45.6 18.4,45.5 18.5,45.3C18.6,45.2 18.7,45.1 18.7,45.0C18.8,44.8 18.9,44.7 19.0,44.6C19.1,44.5 19.2,44.4 19.3,44.3C19.4,44.1 19.5,44.0 19.6,43.9C19.7,43.8 19.9,43.7 20.0,43.6C20.1,43.5 20.2,43.4 20.3,43.3C20.5,43.2 20.6,43.1 20.7,43.0C20.8,43.0 21.0,42.9 21.1,42.8C21.2,42.7 21.3,42.6 21.5,42.5C21.6,42.4 21.7,42.4 21.9,42.3C22.0,42.2 22.1,42.1 22.3,42.0C22.4,41.9 22.5,41.9 22.7,41.8C22.8,41.7 22.9,41.6 23.1,41.6C23.2,41.5 23.3,41.4 23.5,41.3C23.6,41.2 23.8,41.2 23.9,41.1C24.0,41.0 24.2,41.0 24.3,40.9C24.4,40.8 24.6,40.8 24.7,40.7C24.9,40.6 25.0,40.6 25.2,40.5C25.3,40.5 25.4,40.4 25.6,40.3C25.7,40.3 25.9,40.2 26.0,40.2C26.2,40.1 26.3,40.1 26.5,40.0C26.6,40.0 26.8,39.9 26.9,39.9C27.1,39.9 27.2,39.8 27.4,39.8C27.5,39.7 27.7,39.7 27.8,39.6C28.0,39.6 28.1,39.5 28.3,39.5C28.4,39.5 28.6,39.4 28.7,39.4C28.9,39.3 29.0,39.3 29.1,39.2C29.3,39.2 29.4,39.1 29.6,39.1C29.7,39.0 29.9,39.0 30.0,38.9C30.2,38.9 30.3,38.8 30.4,38.8C30.6,38.7 30.7,38.7 30.9,38.6C31.0,38.6 31.2,38.5 31.3,38.5C31.5,38.5 31.6,38.4 31.7,38.4C31.9,38.4 32.0,38.3 32.2,38.3C32.3,38.3 32.5,38.3 32.6,38.2C32.8,38.2 32.9,38.2 33.1,38.2C33.2,38.2 33.4,38.2 33.5,38.2Z" />
+    <Path fill={INK} fillRule="evenodd" d="M70.5,38.9C70.7,38.9 70.9,38.9 71.1,38.9C71.3,38.9 71.4,38.9 71.6,38.9C71.8,38.9 72.0,38.9 72.2,39.0C72.3,39.0 72.5,39.0 72.7,39.0C72.9,39.0 73.1,39.1 73.2,39.1C73.4,39.1 73.6,39.2 73.8,39.2C73.9,39.3 74.1,39.3 74.3,39.4C74.5,39.4 74.6,39.5 74.8,39.5C75.0,39.6 75.1,39.7 75.3,39.7C75.5,39.8 75.6,39.9 75.8,40.0C76.0,40.0 76.1,40.1 76.3,40.2C76.5,40.3 76.6,40.4 76.8,40.4C76.9,40.5 77.1,40.6 77.2,40.7C77.4,40.8 77.6,40.9 77.7,41.0C77.9,41.1 78.0,41.2 78.1,41.3C78.3,41.4 78.4,41.6 78.6,41.7C78.7,41.8 78.9,41.9 79.0,42.0C79.1,42.1 79.3,42.3 79.4,42.4C79.5,42.5 79.7,42.7 79.8,42.8C79.9,42.9 80.0,43.1 80.1,43.2C80.2,43.4 80.4,43.5 80.5,43.6C80.6,43.8 80.7,43.9 80.8,44.1C80.9,44.2 81.0,44.4 81.1,44.6C81.1,44.7 81.2,44.9 81.3,45.0C81.4,45.2 81.5,45.4 81.5,45.5C81.6,45.7 81.7,45.9 81.7,46.0C81.8,46.2 81.8,46.4 81.9,46.5C81.9,46.7 82.0,46.9 82.0,47.1C82.1,47.2 82.1,47.4 82.1,47.6C82.2,47.8 82.2,48.0 82.2,48.1C82.2,48.3 82.2,48.5 82.2,48.7C82.2,48.9 82.3,49.1 82.3,49.2C82.3,49.4 82.2,49.6 82.2,49.8C82.2,50.0 82.2,50.1 82.2,50.3C82.2,50.5 82.1,50.7 82.1,50.9C82.1,51.0 82.1,51.2 82.0,51.4C82.0,51.6 81.9,51.8 81.9,51.9C81.8,52.1 81.8,52.3 81.7,52.4C81.7,52.6 81.6,52.8 81.5,52.9C81.4,53.1 81.4,53.3 81.3,53.4C81.2,53.6 81.1,53.8 81.0,53.9C81.0,54.1 80.9,54.2 80.8,54.4C80.7,54.5 80.6,54.7 80.5,54.8C80.3,55.0 80.2,55.1 80.1,55.2C80.0,55.4 79.9,55.5 79.8,55.7C79.6,55.8 79.5,55.9 79.4,56.0C79.3,56.2 79.1,56.3 79.0,56.4C78.8,56.5 78.7,56.6 78.6,56.8C78.4,56.9 78.3,57.0 78.1,57.1C78.0,57.2 77.8,57.3 77.7,57.4C77.5,57.5 77.4,57.6 77.2,57.6C77.0,57.7 76.9,57.8 76.7,57.9C76.6,58.0 76.4,58.0 76.2,58.1C76.1,58.2 75.9,58.2 75.7,58.3C75.5,58.4 75.4,58.4 75.2,58.5C75.0,58.5 74.8,58.6 74.7,58.6C74.5,58.6 74.3,58.7 74.1,58.7C74.0,58.8 73.8,58.8 73.6,58.8C73.4,58.8 73.2,58.9 73.1,58.9C72.9,58.9 72.7,58.9 72.5,58.9C72.3,58.9 72.1,59.0 71.9,59.0C71.8,59.0 71.6,59.0 71.4,59.0C71.2,59.0 71.0,59.0 70.8,58.9C70.7,58.9 70.5,58.9 70.3,58.9C70.1,58.9 69.9,58.9 69.7,58.8C69.6,58.8 69.4,58.8 69.2,58.7C69.0,58.7 68.9,58.7 68.7,58.6C68.5,58.6 68.3,58.5 68.2,58.5C68.0,58.4 67.8,58.4 67.6,58.3C67.5,58.2 67.3,58.2 67.1,58.1C67.0,58.0 66.8,58.0 66.6,57.9C66.5,57.8 66.3,57.7 66.2,57.6C66.0,57.5 65.8,57.5 65.7,57.4C65.5,57.3 65.4,57.2 65.2,57.1C65.1,57.0 64.9,56.9 64.8,56.7C64.6,56.6 64.5,56.5 64.4,56.4C64.2,56.3 64.1,56.2 64.0,56.0C63.8,55.9 63.7,55.8 63.6,55.6C63.4,55.5 63.3,55.4 63.2,55.2C63.1,55.1 63.0,55.0 62.9,54.8C62.7,54.7 62.6,54.5 62.5,54.4C62.4,54.2 62.3,54.1 62.2,53.9C62.1,53.8 62.1,53.6 62.0,53.5C61.9,53.3 61.8,53.1 61.7,53.0C61.6,52.8 61.6,52.6 61.5,52.5C61.4,52.3 61.4,52.1 61.3,52.0C61.3,51.8 61.2,51.6 61.2,51.5C61.1,51.3 61.1,51.1 61.0,50.9C61.0,50.7 61.0,50.6 60.9,50.4C60.9,50.2 60.9,50.0 60.9,49.9C60.8,49.7 60.8,49.5 60.8,49.3C60.8,49.1 60.8,49.0 60.8,48.8C60.8,48.6 60.8,48.4 60.8,48.2C60.8,48.0 60.8,47.9 60.9,47.7C60.9,47.5 60.9,47.3 60.9,47.1C61.0,47.0 61.0,46.8 61.1,46.6C61.1,46.4 61.1,46.3 61.2,46.1C61.2,45.9 61.3,45.8 61.4,45.6C61.4,45.4 61.5,45.2 61.6,45.1C61.6,44.9 61.7,44.8 61.8,44.6C61.9,44.4 62.0,44.3 62.1,44.1C62.1,44.0 62.2,43.8 62.3,43.7C62.4,43.5 62.5,43.4 62.7,43.2C62.8,43.1 62.9,42.9 63.0,42.8C63.1,42.7 63.2,42.5 63.4,42.4C63.5,42.3 63.6,42.1 63.8,42.0C63.9,41.9 64.0,41.8 64.2,41.7C64.3,41.5 64.4,41.4 64.6,41.3C64.7,41.2 64.9,41.1 65.0,41.0C65.2,40.9 65.3,40.8 65.5,40.7C65.6,40.6 65.8,40.5 65.9,40.4C66.1,40.3 66.3,40.2 66.4,40.2C66.6,40.1 66.7,40.0 66.9,39.9C67.1,39.8 67.2,39.8 67.4,39.7C67.6,39.6 67.7,39.6 67.9,39.5C68.1,39.5 68.3,39.4 68.4,39.3C68.6,39.3 68.8,39.2 68.9,39.2C69.1,39.2 69.3,39.1 69.5,39.1C69.6,39.1 69.8,39.0 70.0,39.0C70.2,39.0 70.4,39.0 70.5,38.9Z" />
     <Path fill={INK} fillRule="evenodd" d="M36.7,51.0C36.9,51.0 37.0,51.0 37.2,51.1C37.3,51.2 37.4,51.3 37.4,51.5C37.5,51.6 37.5,51.8 37.5,52.0C37.5,52.2 37.5,52.5 37.5,52.7C37.5,52.9 37.5,53.1 37.6,53.2C37.6,53.4 37.7,53.6 37.9,53.7C38.0,53.9 38.2,54.0 38.4,54.1C38.7,54.3 38.9,54.4 39.2,54.5C39.5,54.6 39.8,54.6 40.1,54.7C40.4,54.8 40.7,54.9 41.0,54.9C41.3,55.0 41.6,55.1 42.0,55.1C42.3,55.2 42.6,55.2 42.9,55.3C43.3,55.3 43.6,55.4 43.9,55.4C44.2,55.5 44.6,55.5 44.9,55.6C45.2,55.6 45.6,55.7 45.9,55.7C46.2,55.7 46.6,55.8 46.9,55.8C47.2,55.8 47.6,55.9 47.9,55.9C48.3,55.9 48.6,55.9 48.9,55.9C49.3,56.0 49.6,56.0 49.9,56.0C50.3,56.0 50.6,56.0 51.0,56.0C51.3,56.0 51.6,56.0 52.0,56.0C52.3,56.0 52.6,55.9 53.0,55.9C53.3,55.9 53.6,55.8 53.9,55.8C54.2,55.7 54.5,55.7 54.8,55.6C55.1,55.5 55.3,55.4 55.5,55.3C55.7,55.1 55.9,55.0 56.1,54.8C56.3,54.6 56.4,54.5 56.6,54.3C56.7,54.1 56.8,53.9 57.0,53.8C57.1,53.7 57.3,53.5 57.4,53.5C57.5,53.4 57.7,53.4 57.9,53.5C58.0,53.5 58.2,53.6 58.3,53.8C58.5,53.9 58.6,54.1 58.8,54.4C58.9,54.6 59.0,54.8 59.2,55.1C59.3,55.4 59.4,55.7 59.6,55.9C59.7,56.2 59.9,56.5 60.0,56.8C60.1,57.1 60.3,57.3 60.4,57.6C60.6,57.9 60.7,58.1 60.8,58.4C60.9,58.6 61.0,58.9 61.0,59.1C61.0,59.3 61.0,59.5 61.0,59.7C60.9,59.8 60.8,59.9 60.7,60.0C60.5,60.1 60.3,60.1 60.2,60.0C60.0,60.0 59.7,59.9 59.5,59.8C59.3,59.7 59.1,59.6 58.9,59.5C58.7,59.4 58.5,59.2 58.3,59.2C58.2,59.1 58.0,59.1 57.9,59.1C57.7,59.1 57.6,59.2 57.5,59.3C57.4,59.4 57.3,59.6 57.3,59.8C57.2,60.1 57.1,60.3 57.1,60.6C57.1,60.9 57.0,61.2 57.0,61.5C57.0,61.8 56.9,62.2 56.9,62.5C56.9,62.8 56.8,63.2 56.8,63.5C56.7,63.8 56.7,64.2 56.6,64.5C56.6,64.8 56.5,65.1 56.5,65.4C56.4,65.8 56.3,66.1 56.2,66.4C56.2,66.7 56.1,67.0 56.0,67.3C55.9,67.7 55.8,68.0 55.7,68.3C55.6,68.6 55.5,68.9 55.4,69.2C55.2,69.5 55.1,69.8 55.0,70.1C54.8,70.4 54.7,70.6 54.6,70.9C54.4,71.2 54.2,71.5 54.1,71.8C53.9,72.1 53.7,72.3 53.5,72.6C53.3,72.9 53.1,73.1 52.9,73.4C52.7,73.6 52.5,73.9 52.3,74.1C52.1,74.4 51.8,74.6 51.6,74.9C51.4,75.1 51.1,75.3 50.9,75.5C50.6,75.7 50.3,75.9 50.1,76.1C49.8,76.3 49.5,76.5 49.2,76.6C49.0,76.8 48.7,77.0 48.4,77.1C48.1,77.2 47.8,77.4 47.5,77.5C47.2,77.6 46.9,77.7 46.6,77.8C46.3,77.9 46.0,77.9 45.6,78.0C45.3,78.0 45.0,78.1 44.7,78.1C44.3,78.2 44.0,78.2 43.7,78.2C43.3,78.2 43.0,78.2 42.7,78.1C42.4,78.1 42.0,78.1 41.7,78.0C41.4,77.9 41.1,77.9 40.7,77.8C40.4,77.7 40.1,77.6 39.8,77.5C39.5,77.4 39.2,77.3 38.9,77.2C38.6,77.1 38.3,76.9 38.0,76.8C37.7,76.6 37.5,76.5 37.2,76.3C36.9,76.1 36.7,75.9 36.4,75.7C36.1,75.6 35.9,75.3 35.6,75.1C35.4,74.9 35.2,74.7 35.0,74.4C34.7,74.2 34.5,73.9 34.3,73.7C34.1,73.4 34.0,73.1 33.8,72.9C33.6,72.6 33.5,72.3 33.3,72.0C33.2,71.7 33.1,71.4 33.0,71.1C32.8,70.8 32.7,70.5 32.7,70.2C32.6,69.9 32.5,69.6 32.4,69.2C32.4,68.9 32.3,68.6 32.3,68.3C32.3,67.9 32.2,67.6 32.2,67.3C32.2,66.9 32.2,66.6 32.2,66.3C32.3,65.9 32.3,65.6 32.3,65.3C32.4,65.0 32.4,64.6 32.5,64.3C32.6,64.0 32.6,63.7 32.7,63.4C32.8,63.1 32.9,62.7 33.0,62.4C33.1,62.1 33.2,61.8 33.4,61.5C33.5,61.2 33.6,60.9 33.8,60.7C33.9,60.4 34.1,60.1 34.2,59.8C34.4,59.5 34.5,59.3 34.7,59.0C34.8,58.7 35.0,58.5 35.1,58.2C35.2,58.0 35.3,57.7 35.4,57.5C35.4,57.3 35.4,57.1 35.4,56.9C35.4,56.8 35.3,56.6 35.2,56.5C35.0,56.4 34.8,56.3 34.6,56.2C34.4,56.2 34.2,56.2 34.0,56.2C33.7,56.2 33.4,56.2 33.2,56.2C32.9,56.2 32.7,56.3 32.4,56.3C32.2,56.3 31.9,56.3 31.7,56.2C31.6,56.2 31.4,56.1 31.3,56.0C31.2,55.9 31.1,55.8 31.1,55.6C31.1,55.5 31.2,55.3 31.3,55.1C31.4,54.9 31.5,54.7 31.7,54.5C31.9,54.3 32.1,54.1 32.3,53.9C32.5,53.7 32.8,53.5 33.0,53.3C33.3,53.1 33.6,52.9 33.8,52.7C34.1,52.5 34.3,52.3 34.6,52.1C34.8,51.9 35.1,51.7 35.3,51.5C35.6,51.4 35.8,51.2 36.1,51.1C36.3,51.0 36.5,51.0 36.7,51.0ZM39.8,59.0C40.3,58.9 40.9,58.8 41.3,59.0C41.7,59.1 42.0,59.5 42.3,59.9C42.5,60.3 42.6,60.9 42.6,61.4C42.7,61.9 42.7,62.6 42.8,63.0C42.9,63.5 43.0,63.9 43.1,64.1C43.3,64.3 43.6,64.3 43.9,64.1C44.2,63.9 44.5,63.5 45.0,63.1C45.4,62.6 45.8,62.0 46.3,61.5C46.9,61.1 47.4,60.5 48.1,60.2C48.7,59.9 49.4,59.6 50.0,59.5C50.6,59.5 51.3,59.6 51.8,59.8C52.4,60.0 52.8,60.5 53.1,61.0C53.4,61.5 53.6,62.2 53.7,62.9C53.7,63.6 53.6,64.4 53.5,65.2C53.3,66.0 53.1,66.9 52.8,67.7C52.4,68.5 52.0,69.3 51.6,70.0C51.1,70.8 50.5,71.5 49.9,72.1C49.3,72.7 48.6,73.2 47.9,73.6C47.2,74.1 46.4,74.4 45.6,74.6C44.8,74.8 43.9,74.9 43.1,74.8C42.3,74.8 41.5,74.6 40.7,74.4C39.9,74.1 39.2,73.7 38.6,73.2C37.9,72.7 37.3,72.1 36.9,71.4C36.4,70.7 36.1,70.0 35.8,69.2C35.6,68.4 35.5,67.5 35.4,66.7C35.4,65.9 35.6,65.0 35.8,64.2C36.0,63.4 36.3,62.6 36.7,61.9C37.1,61.2 37.6,60.6 38.1,60.1C38.6,59.6 39.2,59.2 39.8,59.0Z" />
-    <Path fill="#FFFFFF" d="M29.4,38.8C29.9,38.8 30.4,38.8 30.9,38.9C31.4,39.0 31.9,39.1 32.3,39.3C32.7,39.5 33.2,39.8 33.5,40.1C33.9,40.4 34.2,40.8 34.5,41.2C34.7,41.6 34.9,42.0 35.0,42.5C35.1,42.9 35.2,43.4 35.2,43.9C35.2,44.3 35.1,44.7 35.1,45.0C35.0,45.3 34.9,45.5 34.8,45.6C34.7,45.6 34.6,45.5 34.5,45.3C34.3,45.1 34.2,44.7 34.1,44.4C33.9,44.0 33.7,43.6 33.5,43.2C33.3,42.8 33.0,42.3 32.7,42.0C32.4,41.6 32.1,41.2 31.7,40.9C31.3,40.6 30.9,40.4 30.4,40.2C30.0,40.0 29.5,39.9 29.1,39.8C28.7,39.6 28.2,39.6 27.9,39.5C27.6,39.5 27.3,39.4 27.2,39.4C27.1,39.3 27.1,39.3 27.3,39.2C27.5,39.1 27.8,39.0 28.1,39.0C28.5,38.9 29.0,38.8 29.4,38.8Z" />
-    <Path fill="#FFFFFF" d="M22.7,41.4C22.7,41.4 22.6,41.5 22.5,41.7C22.4,41.8 22.3,42.0 22.1,42.2C21.9,42.5 21.7,42.7 21.5,43.0C21.4,43.3 21.2,43.6 21.1,43.9C20.9,44.2 20.8,44.5 20.7,44.9C20.6,45.2 20.6,45.6 20.5,45.9C20.5,46.2 20.5,46.6 20.5,46.9C20.5,47.3 20.5,47.6 20.5,47.9C20.5,48.1 20.6,48.4 20.6,48.5C20.6,48.7 20.5,48.7 20.5,48.7C20.5,48.7 20.4,48.5 20.3,48.3C20.2,48.2 20.1,47.9 20.1,47.6C20.0,47.3 20.0,46.9 20.0,46.6C20.0,46.3 20.0,45.9 20.1,45.6C20.1,45.3 20.2,44.9 20.3,44.6C20.4,44.3 20.5,44.0 20.7,43.7C20.8,43.4 21.0,43.1 21.2,42.8C21.4,42.5 21.6,42.3 21.8,42.1C22.0,41.9 22.2,41.7 22.4,41.6C22.5,41.5 22.6,41.4 22.7,41.4Z" />
-    <Path fill="#FFFFFF" d="M70.2,41.6C70.8,41.5 71.4,41.5 72.0,41.6C72.7,41.7 73.3,41.8 73.9,42.0C74.5,42.2 75.0,42.5 75.6,42.8C76.1,43.1 76.7,43.4 77.1,43.8C77.6,44.3 78.0,44.7 78.4,45.2C78.7,45.7 79.0,46.3 79.2,46.8C79.4,47.4 79.6,48.0 79.6,48.5C79.7,49.0 79.7,49.6 79.7,49.9C79.7,50.3 79.7,50.5 79.6,50.6C79.6,50.6 79.5,50.4 79.4,50.2C79.3,49.9 79.3,49.4 79.1,48.9C78.9,48.4 78.8,47.8 78.5,47.3C78.2,46.8 77.9,46.3 77.5,45.8C77.1,45.3 76.7,44.9 76.2,44.6C75.7,44.2 75.2,43.9 74.6,43.7C74.1,43.5 73.5,43.3 72.9,43.2C72.3,43.2 71.6,43.2 71.0,43.2C70.4,43.3 69.8,43.5 69.2,43.7C68.7,43.9 68.1,44.2 67.6,44.6C67.1,44.9 66.6,45.3 66.2,45.8C65.8,46.3 65.4,46.8 65.1,47.3C64.8,47.8 64.6,48.4 64.4,48.9C64.2,49.4 64.1,49.9 63.9,50.2C63.8,50.5 63.7,50.7 63.6,50.7C63.5,50.7 63.4,50.5 63.4,50.2C63.3,49.9 63.2,49.4 63.3,48.8C63.3,48.3 63.4,47.7 63.5,47.1C63.7,46.6 63.9,46.0 64.2,45.4C64.5,44.9 64.9,44.4 65.3,44.0C65.7,43.5 66.2,43.1 66.7,42.8C67.2,42.5 67.8,42.2 68.4,42.0C69.0,41.8 69.6,41.7 70.2,41.6Z" />
-    <Path fill="#FFFFFF" d="M25.5,42.5C25.6,42.5 25.8,42.5 25.9,42.5C26.1,42.5 26.2,42.6 26.3,42.7C26.5,42.7 26.6,42.8 26.7,42.9C26.7,43.1 26.8,43.2 26.8,43.3C26.9,43.5 26.9,43.6 26.8,43.8C26.8,43.9 26.8,44.1 26.7,44.2C26.6,44.3 26.6,44.5 26.4,44.6C26.3,44.7 26.2,44.8 26.1,44.9C26.0,45.0 25.8,45.0 25.7,45.1C25.5,45.2 25.4,45.2 25.2,45.2C25.1,45.2 24.9,45.2 24.8,45.2C24.6,45.1 24.5,45.1 24.4,45.0C24.3,44.9 24.2,44.8 24.1,44.7C24.0,44.6 23.9,44.4 23.9,44.3C23.9,44.2 23.9,44.0 23.9,43.9C23.9,43.7 23.9,43.6 24.0,43.5C24.0,43.3 24.1,43.2 24.2,43.1C24.3,43.0 24.4,42.9 24.6,42.8C24.7,42.7 24.8,42.6 25.0,42.6C25.1,42.5 25.3,42.5 25.5,42.5Z" />
-    <Path fill="#FFFFFF" d="M69.2,46.4C69.4,46.3 69.6,46.4 69.7,46.4C69.9,46.4 70.1,46.5 70.2,46.5C70.3,46.6 70.5,46.7 70.6,46.8C70.7,47.0 70.7,47.1 70.8,47.3C70.9,47.4 70.9,47.6 70.9,47.7C70.9,47.9 70.9,48.1 70.8,48.2C70.7,48.4 70.7,48.5 70.6,48.7C70.5,48.8 70.3,48.9 70.2,49.0C70.1,49.1 69.9,49.2 69.8,49.3C69.6,49.4 69.4,49.4 69.3,49.5C69.1,49.5 68.9,49.5 68.8,49.5C68.6,49.5 68.5,49.4 68.3,49.3C68.2,49.2 68.1,49.1 68.0,49.0C67.9,48.9 67.8,48.7 67.7,48.6C67.7,48.4 67.7,48.3 67.7,48.1C67.7,47.9 67.7,47.8 67.7,47.6C67.8,47.4 67.9,47.3 68.0,47.1C68.1,47.0 68.2,46.9 68.3,46.8C68.4,46.7 68.6,46.6 68.8,46.5C68.9,46.4 69.1,46.4 69.2,46.4Z" />
-    <Path fill="#FFFFFF" d="M73.5,50.4C73.5,50.4 73.6,50.4 73.7,50.4C73.8,50.4 73.9,50.4 74.0,50.4C74.1,50.4 74.1,50.4 74.2,50.4C74.3,50.5 74.3,50.5 74.4,50.6C74.4,50.7 74.5,50.7 74.5,50.8C74.5,50.9 74.6,51.0 74.6,51.0C74.6,51.1 74.6,51.2 74.5,51.3C74.5,51.4 74.5,51.5 74.5,51.6C74.4,51.6 74.4,51.7 74.3,51.8C74.3,51.8 74.2,51.8 74.1,51.9C74.0,51.9 73.9,51.9 73.9,51.9C73.8,51.9 73.7,51.9 73.6,51.9C73.5,51.9 73.4,51.9 73.4,51.8C73.3,51.8 73.2,51.8 73.2,51.7C73.1,51.6 73.1,51.6 73.0,51.5C73.0,51.4 73.0,51.3 73.0,51.3C73.0,51.2 73.0,51.1 73.0,51.0C73.0,50.9 73.1,50.8 73.1,50.8C73.1,50.7 73.2,50.6 73.3,50.6C73.3,50.5 73.4,50.5 73.5,50.4Z" />
     <Path fill={GOLD} stroke={INK} strokeWidth={STROKE} strokeLinejoin="round" strokeLinecap="round" d="M24.00,33.00 L24.52,18.70 L38.30,28.32 L50.60,7.00 L63.00,27.28 L76.00,19.48 L75.48,33.00 L50.00,39.80 Z" />
     </Svg>
   );

diff --git a/docs/APP_ICON_BIGAE_REVIEW_2026-09-10.md b/docs/APP_ICON_BIGAE_REVIEW_2026-09-10.md
@@ -399,7 +399,7 @@ E8 = wrap(f'<path d="{hpath(SC8, 50, 56)}" fill="{GREEN}"/>'
 
 | §1 에서 지적한 실패 | 까꿍 컷 |
 | --- | --- |
-| 눈이 점 두 개라 캐릭터가 "안 본다" | **큰 눈 + 흰 하이라이트** 를 이미 갖고 있음 |
+| 눈이 점 두 개라 캐릭터가 "안 본다" | **큰 눈**을 이미 갖고 있음 |
 | 잉크 면적이 마크의 11.7% 뿐 | 큰 눈·혀·입 윤곽으로 잉크 질량이 크게 늘어남 |
 | 종 판독 실패 | 여전히 미해결 — 아래 "남은 것" 참조 |
 
@@ -432,6 +432,26 @@ Catmull-Rom 을 3차 베지에로.
 - 눈·입은 구멍이 있는 도형이라 `fill-rule="evenodd"` 로 외곽 + 구멍을 한 패스에 담습니다.
   흰 하이라이트는 그 구멍 위에 별도 흰 패스로 덮습니다.
 
+### 눈은 꽉 찬 검정 — 흰자를 뺀다
+
+스티커의 반짝이는 흰자·하이라이트는 **원본 펜 그림에 없습니다.** 손그림을 이미지 모델로
+스티커화하는 과정에서 덧붙은 것이고, 사용자가 종이에 그린 눈은 전부 꽉 찬 검은 타원입니다.
+원본으로 되돌립니다.
+
+걷어내는 데 두 가지가 걸렸습니다.
+
+1. **바깥으로 열린 초승달은 구멍이 아니라 홈입니다.** 오른쪽 눈의 하이라이트는 닫힌 구멍이라
+   `fill_holes` 로 메워지지만(둘레 618 불변), 왼쪽 눈은 쓸림이 테두리로 열려 있어 안 메워집니다.
+   닫힘 R=24 를 먼저 걸면 봉해집니다(둘레 702 → 536).
+2. **봉한 자리가 울퉁불퉁합니다.** 눈만 평활을 4.5 로 세게 겁니다(입은 2.0 그대로 — 원본 결을 남깁니다).
+   볼록껍질도 재봤지만 왼쪽 눈이 각진 쐐기가 돼 **뺐습니다**.
+
+**입만은 구멍을 남깁니다** — 혀와 몸통 초록이 비쳐야 합니다. 입의 판별은 위치 규칙이 아니라
+**"혀 중심을 품는 성분"** 으로 합니다. 위치는 컷이 바뀌면 깨지지만 이 규칙은 안 깨집니다.
+
+결과적으로 잉크 질량이 더 늘어 24px 진한 픽셀이 13.0% → **14.1%** 가 됐고, 패스 수는
+14개 → 8개로 줄었습니다(하이라이트 6개 삭제).
+
 ### 실측으로 정한 세 가지
 
 1. **윤곽 두께 2.85** — 잉크 링 면적 ÷ 실루엣 둘레 = 29.1px(@1440), viewBox 환산 2.85.
@@ -454,7 +474,7 @@ Catmull-Rom 을 3차 베지에로.
 ### 산출물
 
 ```
-frontend/assets/bigae-mark.svg              마스터 교체 (excited → 까꿍 + 왕관), 패스 14개
+frontend/assets/bigae-mark.svg              마스터 교체 (excited → 까꿍 + 왕관), 패스 8개
 frontend/assets/icon.png                    1024² RGB 무알파(iOS 규격), 마크 점유 88.0%
 frontend/assets/favicon.png                 icon.png 와 동일본
 frontend/assets/splash-icon.png             1024², 마크 점유 53%(기존 비율 유지)
@@ -475,7 +495,8 @@ frontend/app.json                           adaptiveIcon.backgroundColor #6E2B38
 | 항목 | 상태 |
 | --- | --- |
 | **종 판독 — 여전히 "개구리"로는 안 읽힘** | **미해결.** §5-2(윤곽 위로 솟은 눈)는 이번에도 적용 안 됨 |
-| 볼터치 — 유치함 신호 1개 잔존 | 의도적 유지. 원본 손그림의 결이라 제거하면 컷이 달라짐 |
+| 볼터치 — 유치함 신호 1개 잔존 | 의도적 유지. 원본 펜 그림에도 있는 결이라 제거하면 컷이 달라짐 |
+| 흰자·하이라이트 | 제거됨 — 원본 펜 그림에 없던 요소 |
 | 실기기 홈 화면 육안 확인 | **미검증** — 렌더 시뮬레이션까지만 |
 | Play Console 스토어 아이콘(512²) 동반 갱신 | 미착수 |
 | 스티커 20종에 왕관 반영 여부 | 미정 — 아이콘만 왕관을 쓸지, 캐릭터 전체가 쓸지 |
